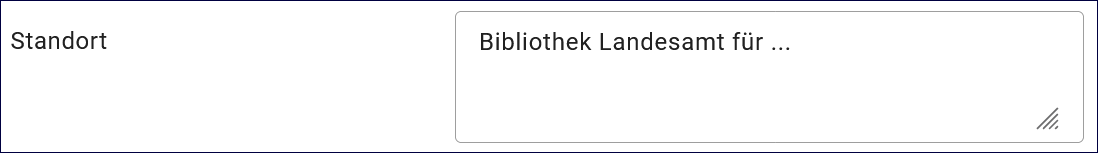
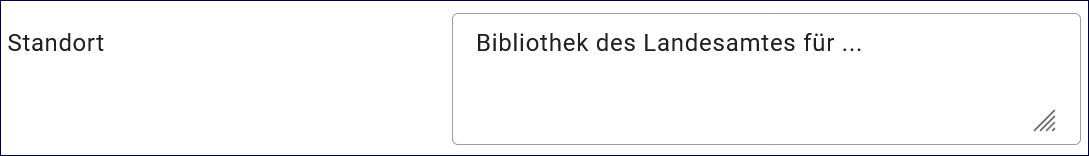
Aktualisierung

diff --git a/docs/ingrid-editor/erfassung/datensatztypen/datensatztyp-dokument.rst b/docs/ingrid-editor/erfassung/datensatztypen/datensatztyp-dokument.rst
@@ -82,7 +82,7 @@ Angabe, wo das Dokument veröffentlicht wurde. Diese Angabe bezieht sich auf das
 Beispiel: Hamburg
 
 
-Feld: Band, Heft
+Feld: Band/Heft
 """"""""""""""""
 
 Angabe der Zählung des betreffenden Bandes einer Reihe. Zeitschriften und Sammelwerke bzw. Reihen werden fortlaufend seit ihrem Erscheinen oder pro Jahrgang gezählt. Hier ist die Zählung des Bandes anzugeben, in dem der Artikel oder Bericht erschienen ist.
@@ -119,7 +119,7 @@ Abb.: Textfeld - Standort
 Angabe des Aufbewahrungsortes und ggf. des Bezugsortes des Dokuments, falls ein Bezug über die üblichen Wege (Handel, Bibliotheken) nicht möglich ist.
 
 
-Beispiel: Landesarchiv Saarland oder Bibliothek des Landesamtes für ...
+Beispiel: Landesarchiv Saarland oder Bibliothek des Landesamtes für ... oder ein Online-Shop
 
 
 Feld: ISBN-Nr.
